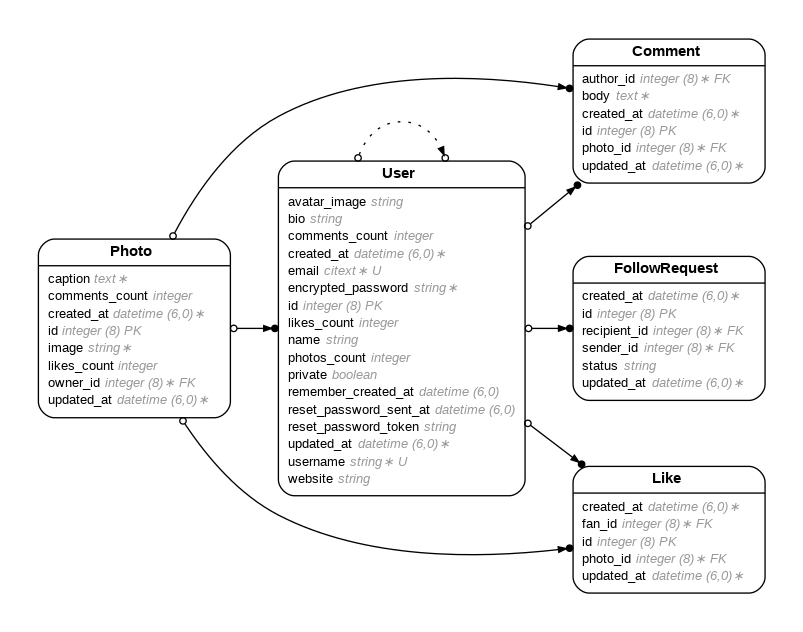
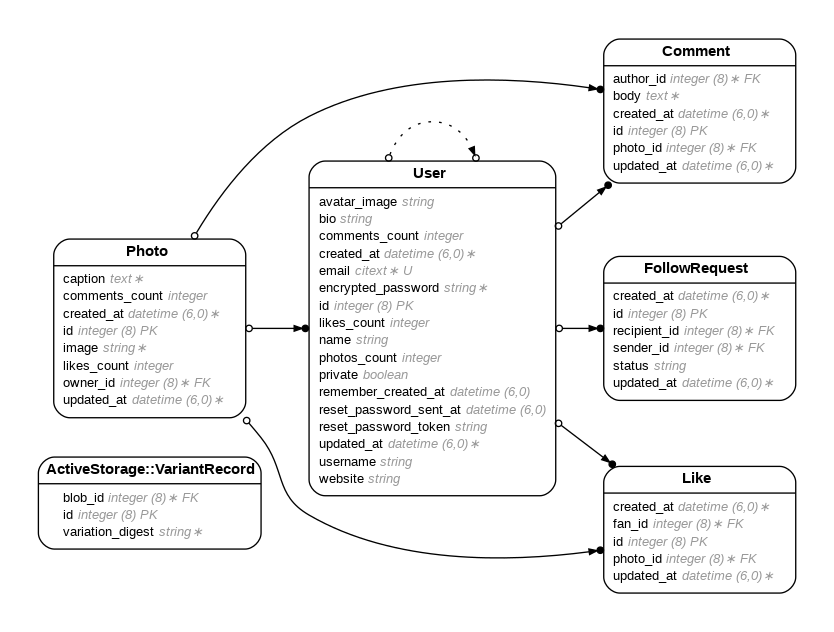
keep goin

diff --git a/db/schema.rb b/db/schema.rb
@@ -10,16 +10,39 @@
 #
 # It's strongly recommended that you check this file into your version control system.
 
-gc-photogram-industrial-2
-ActiveRecord::Schema[8.0].define(version: 2025_04_08_235503) do
-
-ActiveRecord::Schema[8.0].define(version: 2025_03_13_202311) do
- main
+ActiveRecord::Schema[8.0].define(version: 2025_04_15_223501) do
   # These are extensions that must be enabled in order to support this database
   enable_extension "citext"
   enable_extension "pg_catalog.plpgsql"
 
-gc-photogram-industrial-2
+  create_table "active_storage_attachments", force: :cascade do |t|
+    t.string "name", null: false
+    t.string "record_type", null: false
+    t.bigint "record_id", null: false
+    t.bigint "blob_id", null: false
+    t.datetime "created_at", null: false
+    t.index ["blob_id"], name: "index_active_storage_attachments_on_blob_id"
+    t.index ["record_type", "record_id", "name", "blob_id"], name: "index_active_storage_attachments_uniqueness", unique: true
+  end
+
+  create_table "active_storage_blobs", force: :cascade do |t|
+    t.string "key", null: false
+    t.string "filename", null: false
+    t.string "content_type"
+    t.text "metadata"
+    t.string "service_name", null: false
+    t.bigint "byte_size", null: false
+    t.string "checksum"
+    t.datetime "created_at", null: false
+    t.index ["key"], name: "index_active_storage_blobs_on_key", unique: true
+  end
+
+  create_table "active_storage_variant_records", force: :cascade do |t|
+    t.bigint "blob_id", null: false
+    t.string "variation_digest", null: false
+    t.index ["blob_id", "variation_digest"], name: "index_active_storage_variant_records_uniqueness", unique: true
+  end
+
   create_table "comments", force: :cascade do |t|
     t.bigint "author_id", null: false
     t.bigint "photo_id", null: false
@@ -58,36 +81,6 @@ gc-photogram-industrial-2
     t.datetime "updated_at", null: false
     t.index ["owner_id"], name: "index_photos_on_owner_id"
   end
-
-  create_table "users", force: :cascade do |t|
-    t.citext "email", default: "", null: false
-    t.string "encrypted_password", default: "", null: false
-    t.string "reset_password_token"
-    t.datetime "reset_password_sent_at"
-    t.datetime "remember_created_at"
-    t.string "username"
-    t.string "name"
-    t.string "avatar_image"
-    t.string "bio"
-    t.string "website"
-    t.boolean "private", default: true
-    t.integer "likes_count", default: 0
-    t.integer "comments_count", default: 0
-    t.datetime "created_at", null: false
-    t.datetime "updated_at", null: false
-    t.integer "photos_count"
-    t.index ["email"], name: "index_users_on_email", unique: true
-    t.index ["reset_password_token"], name: "index_users_on_reset_password_token", unique: true
-    t.index ["username"], name: "index_users_on_username", unique: true
-  end
-
-  add_foreign_key "comments", "photos"
-  add_foreign_key "comments", "users", column: "author_id"
-  add_foreign_key "follow_requests", "users", column: "recipient_id"
-  add_foreign_key "follow_requests", "users", column: "sender_id"
-  add_foreign_key "likes", "photos"
-  add_foreign_key "likes", "users", column: "fan_id"
-  add_foreign_key "photos", "users", column: "owner_id"
 
   create_table "solid_cable_messages", force: :cascade do |t|
     t.binary "channel", null: false
@@ -231,11 +224,41 @@ gc-photogram-industrial-2
     t.index ["key"], name: "index_solid_queue_semaphores_on_key", unique: true
   end
 
+  create_table "users", force: :cascade do |t|
+    t.citext "email", default: "", null: false
+    t.string "encrypted_password", default: "", null: false
+    t.string "reset_password_token"
+    t.datetime "reset_password_sent_at"
+    t.datetime "remember_created_at"
+    t.string "username"
+    t.string "name"
+    t.string "avatar_image"
+    t.string "bio"
+    t.string "website"
+    t.boolean "private", default: true
+    t.integer "likes_count", default: 0
+    t.integer "comments_count", default: 0
+    t.datetime "created_at", null: false
+    t.datetime "updated_at", null: false
+    t.integer "photos_count"
+    t.index ["email"], name: "index_users_on_email", unique: true
+    t.index ["reset_password_token"], name: "index_users_on_reset_password_token", unique: true
+    t.index ["username"], name: "index_users_on_username", unique: true
+  end
+
+  add_foreign_key "active_storage_attachments", "active_storage_blobs", column: "blob_id"
+  add_foreign_key "active_storage_variant_records", "active_storage_blobs", column: "blob_id"
+  add_foreign_key "comments", "photos"
+  add_foreign_key "comments", "users", column: "author_id"
+  add_foreign_key "follow_requests", "users", column: "recipient_id"
+  add_foreign_key "follow_requests", "users", column: "sender_id"
+  add_foreign_key "likes", "photos"
+  add_foreign_key "likes", "users", column: "fan_id"
+  add_foreign_key "photos", "users", column: "owner_id"
   add_foreign_key "solid_queue_blocked_executions", "solid_queue_jobs", column: "job_id", on_delete: :cascade
   add_foreign_key "solid_queue_claimed_executions", "solid_queue_jobs", column: "job_id", on_delete: :cascade
   add_foreign_key "solid_queue_failed_executions", "solid_queue_jobs", column: "job_id", on_delete: :cascade
   add_foreign_key "solid_queue_ready_executions", "solid_queue_jobs", column: "job_id", on_delete: :cascade
   add_foreign_key "solid_queue_recurring_executions", "solid_queue_jobs", column: "job_id", on_delete: :cascade
   add_foreign_key "solid_queue_scheduled_executions", "solid_queue_jobs", column: "job_id", on_delete: :cascade
- main
 end

diff --git a/db/migrate/20250415223421_create_active_storage_tables.active_storage.rb b/db/migrate/20250415223421_create_active_storage_tables.active_storage.rb
@@ -1,0 +1,57 @@
+# This migration comes from active_storage (originally 20170806125915)
+class CreateActiveStorageTables < ActiveRecord::Migration[7.0]
+  def change
+    # Use Active Record's configured type for primary and foreign keys
+    primary_key_type, foreign_key_type = primary_and_foreign_key_types
+
+    create_table :active_storage_blobs, id: primary_key_type do |t|
+      t.string   :key,          null: false
+      t.string   :filename,     null: false
+      t.string   :content_type
+      t.text     :metadata
+      t.string   :service_name, null: false
+      t.bigint   :byte_size,    null: false
+      t.string   :checksum
+
+      if connection.supports_datetime_with_precision?
+        t.datetime :created_at, precision: 6, null: false
+      else
+        t.datetime :created_at, null: false
+      end
+
+      t.index [ :key ], unique: true
+    end
+
+    create_table :active_storage_attachments, id: primary_key_type do |t|
+      t.string     :name,     null: false
+      t.references :record,   null: false, polymorphic: true, index: false, type: foreign_key_type
+      t.references :blob,     null: false, type: foreign_key_type
+
+      if connection.supports_datetime_with_precision?
+        t.datetime :created_at, precision: 6, null: false
+      else
+        t.datetime :created_at, null: false
+      end
+
+      t.index [ :record_type, :record_id, :name, :blob_id ], name: :index_active_storage_attachments_uniqueness, unique: true
+      t.foreign_key :active_storage_blobs, column: :blob_id
+    end
+
+    create_table :active_storage_variant_records, id: primary_key_type do |t|
+      t.belongs_to :blob, null: false, index: false, type: foreign_key_type
+      t.string :variation_digest, null: false
+
+      t.index [ :blob_id, :variation_digest ], name: :index_active_storage_variant_records_uniqueness, unique: true
+      t.foreign_key :active_storage_blobs, column: :blob_id
+    end
+  end
+
+  private
+    def primary_and_foreign_key_types
+      config = Rails.configuration.generators
+      setting = config.options[config.orm][:primary_key_type]
+      primary_key_type = setting || :primary_key
+      foreign_key_type = setting || :bigint
+      [ primary_key_type, foreign_key_type ]
+    end
+end

diff --git a/app/controllers/comments_controller.rb b/app/controllers/comments_controller.rb
@@ -53,7 +53,7 @@ class CommentsController < ApplicationController
     @comment.destroy!
 
     respond_to do |format|
-      format.html { redirect_to comments_path, status: :see_other, notice: "Comment was successfully destroyed." }
+      format.html { redirect_back fallback_location: root_path, notice: "Comment was successfully destroyed." }
       format.json { head :no_content }
     end
   end

diff --git a/app/controllers/likes_controller.rb b/app/controllers/likes_controller.rb
@@ -31,6 +31,7 @@ class LikesController < ApplicationController
       else
         format.html { render :new, status: :unprocessable_entity }
         format.json { render json: @like.errors, status: :unprocessable_entity }
+        format.any { head :not_acceptable }
       end
     end
   end

diff --git a/app/models/photo.rb b/app/models/photo.rb
@@ -20,6 +20,7 @@
 #  fk_rails_...  (owner_id => users.id)
 #
 class Photo < ApplicationRecord
+  has_one_attached :image
   mount_uploader :image, ImageUploader
   
   belongs_to :owner, class_name: "User", counter_cache: true

diff --git a/db/migrate/20250415223501_r_emove_image_from_photos.rb b/db/migrate/20250415223501_r_emove_image_from_photos.rb
@@ -1,0 +1,4 @@
+class REmoveImageFromPhotos < ActiveRecord::Migration[8.0]
+  def change
+  end
+end
